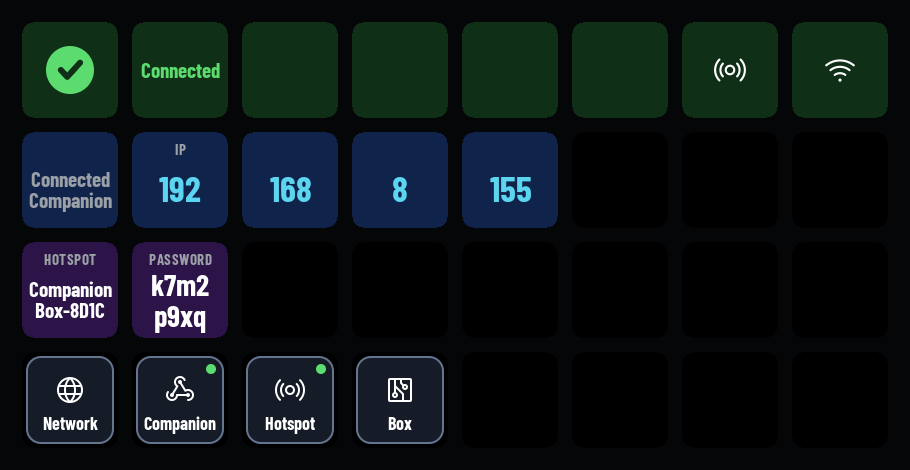
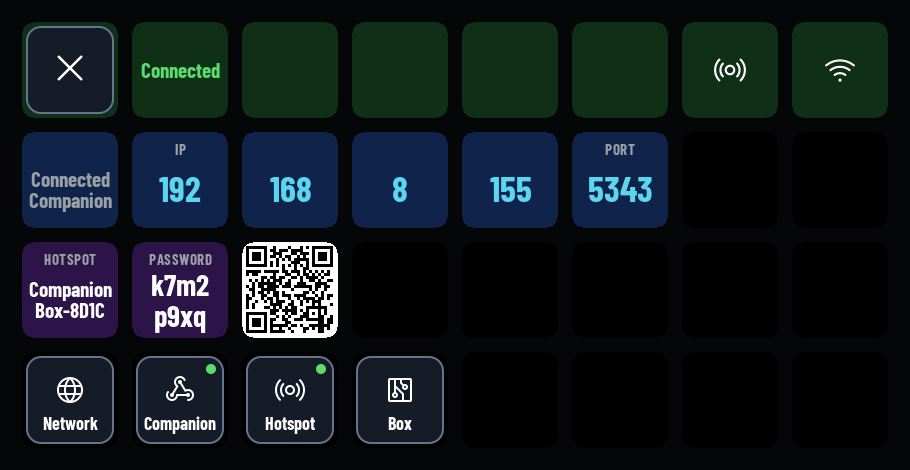
README: the NeoKey CHOC board; how to open the box menu on a deck
- Hardware: the Adafruit NeoKey Socket Breakout for CHOC (#5756), service key and
  status light on one board, with its wiring in a line.
- Getting started, step 4: the box menu gesture drawn (tap top-right, then hold
  top-right and bottom-right for 2 s), the menu it opens on a 15-key deck, how to
  close it and the other ways to open it.
- Screenshots: the Module 32 home opened on demand, as it is now (its Close key).

diff --git a/README.md b/README.md
@@ -34,7 +34,8 @@ web page.
   and the Pedal. Each deck keeps its Companion page across replugs and reboots (it is known by its serial).
 - **A box menu on the decks.** While Companion isn't driving a deck, the deck shows the box's own screens: the
   state, the box's address, Network, Companion, Hotspot and Box settings, with holds for anything that restarts
-  or cuts people off. A key gesture or the web page opens the menu over Companion too.
+  or cuts people off. A [key gesture](#4-open-the-box-menu-on-a-deck) or the web page opens the menu over
+  Companion too.
 - **A web page** for status, settings, firmware updates, the log and a live performance view (CPU, memory, tasks,
   network counters), laid out for a phone as well as a desktop.
 - **Ethernet and Wi-Fi**, with a backup Wi-Fi network for when the main one is out of reach, and a setup
@@ -56,14 +57,16 @@ web page.
 |---|---|---|
 | [Waveshare ESP32-P4-WIFI6-POE-ETH](https://www.waveshare.com/esp32-p4-wifi6-poe-eth.htm?sku=32832) | $24.99 | ESP32-P4 with 32 MB PSRAM, Ethernet, 802.3af PoE, an ESP32-C6 for Wi-Fi 6. Comes with a speaker, an antenna and cables |
 | [Adafruit Breadboard-friendly RGB Smart NeoPixel (#1312)](https://www.adafruit.com/product/1312) | $7.95 for 5 | optional status light, SK6812 (WS2812B-compatible). You need one |
+| [Adafruit NeoKey Socket Breakout for CHOC (#5756)](https://www.adafruit.com/product/5756) | $1.75 | optional, instead of the NeoPixel above: a key socket with a NeoPixel under the key, so one small board is the **service key** and the **status light**. Add a Kailh Choc v1 switch and a keycap. The case's Button lid is made for it |
 | A PoE switch or injector (802.3af) | | or USB-C power and Wi-Fi |
 
 Prices from the vendors' sites, November 2026; shipping not included. That is about **$33** for the box itself.
 
 The NeoPixel takes 5 V and GND from the board's header and its data input on GPIO 23, header pin 8 (another pin can be set on
-the web page). Pin tables, power notes and the optional service key (a push button or a NeoKey: short press, long
-press, 5 s and 10 s holds) are in the
-[manual](docs/manual.md#hardware).
+the web page). The NeoKey's switch goes between GPIO 32 and GND, and its NeoPixel takes 3V3, GND and the same data
+pin. The status light and the service key are off on a new box: switch them on, on the web page's **Speaker & LED**
+page, once they are wired. Pin tables, power notes, the NeoKey's wiring and what the service key does (a short
+press, a long press, 5 s and 10 s holds) are in the [manual](docs/manual.md#service-key).
 
 ### How many Stream Decks
 
@@ -174,6 +177,35 @@ The web page is at `http://<box IP>/` or `http://companionbox-xxxx.local/`.
 - **Satellite mode** (switch on the web page's Companion page): with one Companion 5 on the network, the decks
   appear by themselves. With several, pick one on the web page or on the deck. *Surfaces → Discover* in Companion
   also finds the box.
+
+### 4. Open the box menu on a deck
+
+While Companion drives a deck, the box's own menu is one gesture away, on that deck: its address, the network,
+Companion, the hotspot and the box's settings.
+
+<p align="center">
+  <img src="docs/images/box-menu-gesture.svg" alt="Step 1: tap the top-right key. Step 2: within 3 seconds, hold the top-right and bottom-right keys together for 2 seconds." width="80%">
+</p>
+
+1. **Tap the top-right key.** Companion still gets this press, like any other.
+2. **Within 3 seconds, press the top-right and bottom-right keys together and hold both for 2 seconds.** The box
+   clicks and its menu opens on that deck.
+
+<p align="center">
+  <img src="docs/images/deck-mk2-box-menu.png" alt="The box menu on a 15-key Stream Deck: a Close key at the top-left, Connected, the box's IP address and port, and the Network, Companion, Hotspot and Box keys" width="46%">
+</p>
+
+Companion stays connected meanwhile. **✕** at the top-left closes the menu, and so does leaving it alone for 60
+seconds; Companion's images come straight back. The gesture works on every deck with a screen, on the top and bottom
+keys of its right column.
+
+Other ways to open it:
+
+- the web page: **Home → Show box menu** next to the deck;
+- a short press of the [service key](docs/manual.md#service-key), which opens it on the biggest deck.
+
+The gesture's keys, taps and hold time can be changed, or the gesture turned off, on the web page's **Device** page.
+A deck that Companion isn't driving shows the box's screens by itself.
 
 The [manual](docs/manual.md) covers the rest: [connection modes](docs/manual.md#connection-modes), the
 [deck screens](docs/manual.md#maintenance-screens-on-the-decks), [recovery](docs/manual.md#recovery) and the
